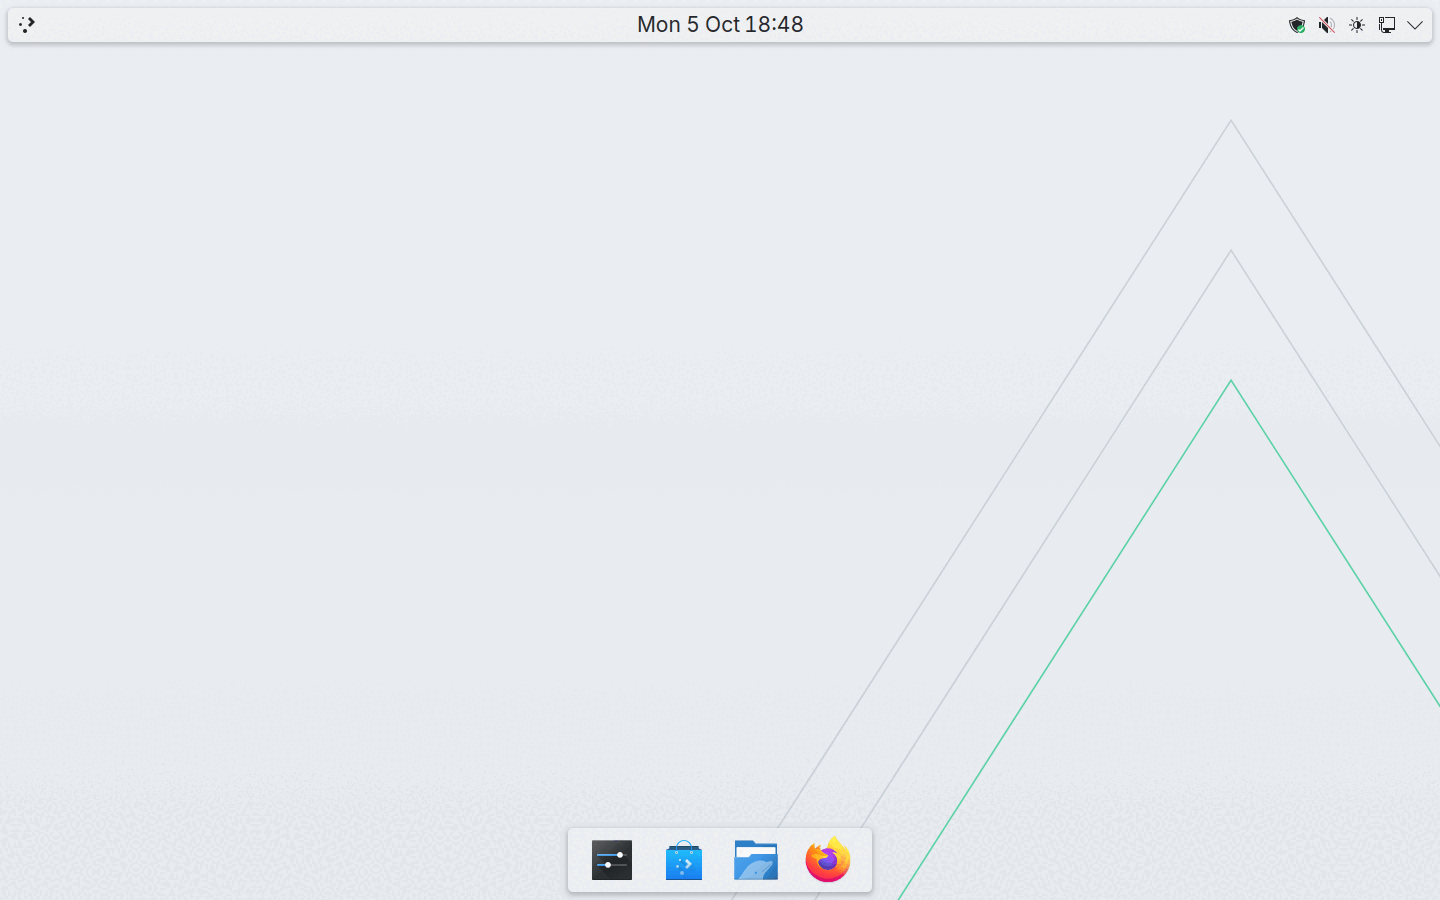
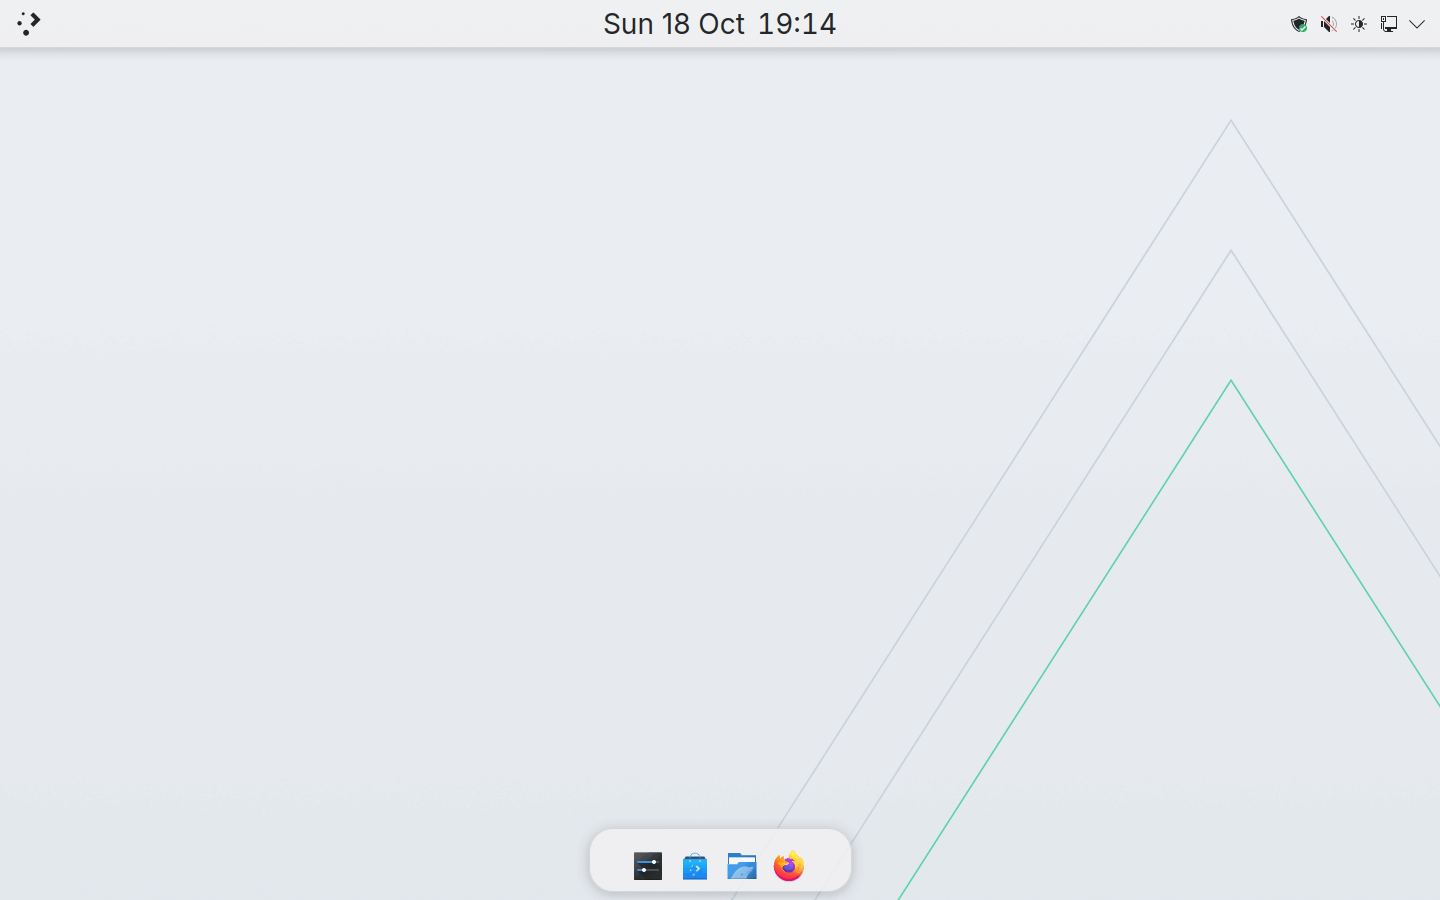
docs: show the ArkaOS Dock in the screenshots

Changed region(s): [[0.0, 0.0, 1.0, 0.0622], [0.4062, 0.9333, 0.5938, 0.9956]]

diff --git a/website/index.html b/website/index.html
@@ -131,7 +131,7 @@ footer.site .end { margin-left: auto; }
       <a class="pill quiet" href="#honest">What we can and can't show</a>
     </div>
     <figure class="shot">
-      <img src="img/desktop-light.png" width="1440" height="900" alt="The ArkaOS desktop in its light look: a slim top bar with the date and system tray, a small dock at the bottom, and a pale wallpaper with the ArkaOS triangle drawn in thin lines.">
+      <img src="img/desktop-light.png" width="1440" height="900" alt="The ArkaOS desktop in its light look: a slim top bar with the date and system tray, the ArkaOS Dock at the bottom, and a pale wallpaper with the ArkaOS triangle drawn in thin lines.">
       <figcaption class="note">The ArkaOS desktop in the light look, from a test in a virtual machine. You choose light or dark during setup.</figcaption>
     </figure>
   </div>

diff --git a/README.md b/README.md
@@ -223,7 +223,10 @@ gate on a 100-boot reliability loop. Doctrine and harnesses:
 Fedora 44 candidate, light look, from a VM test of a built image:
 
 <p align="center">
-  <img src="website/img/desktop-light.png" width="100%" alt="The ArkaOS desktop in its light look: slim top bar, small dock, and a pale wallpaper with the ArkaOS triangle in thin lines"/>
+  <img src="website/img/desktop-light.png" width="100%" alt="The ArkaOS desktop in its light look: slim top bar, the ArkaOS Dock with Settings, Discover, Files and Firefox, and a pale wallpaper with the ArkaOS triangle in thin lines"/>
+</p>
+<p align="center">
+  <img src="website/img/dock-light.png" width="60%" alt="Close-up of the ArkaOS Dock: icons grow around the pointer, and a green dot under Firefox shows it is running"/>
 </p>
 <p align="center">
   <img src="website/img/setup-privacy-light.png" width="49%" alt="The last step of setup, Your privacy settings, listing six settings including the firewall, each marked Configured"/>
